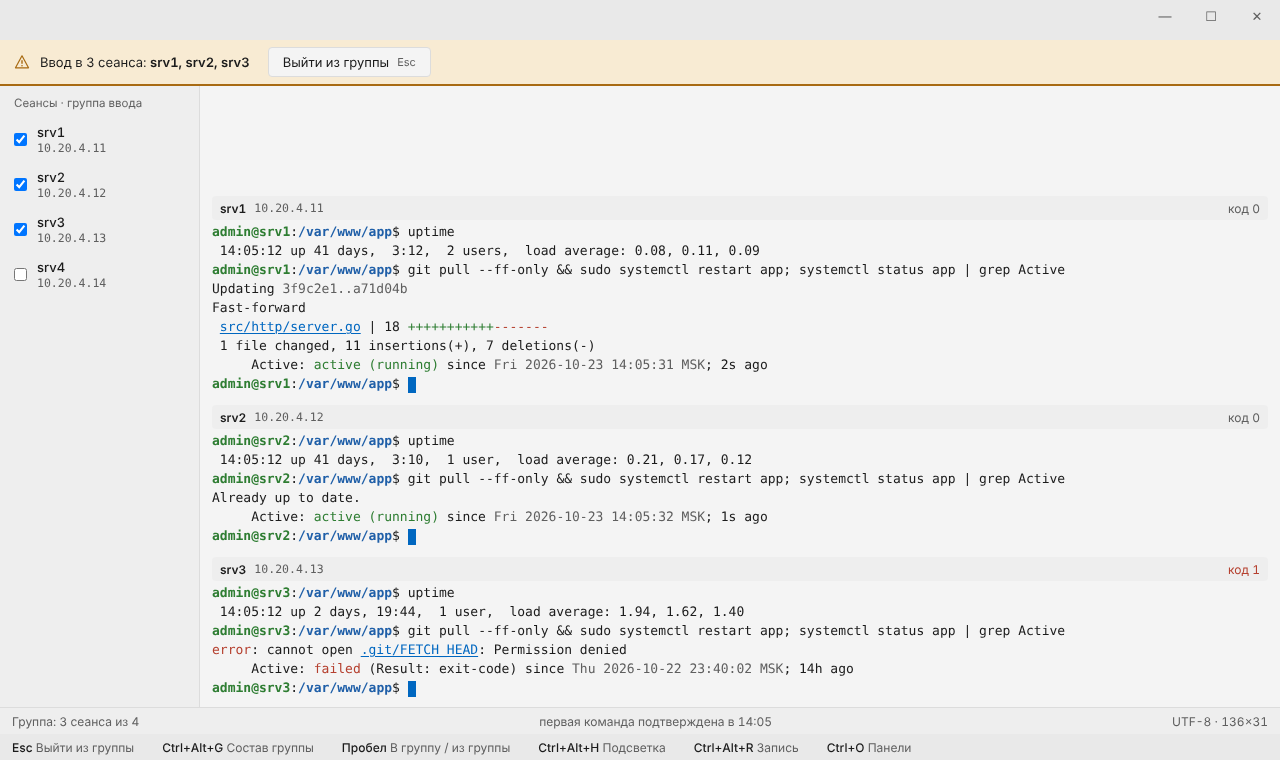
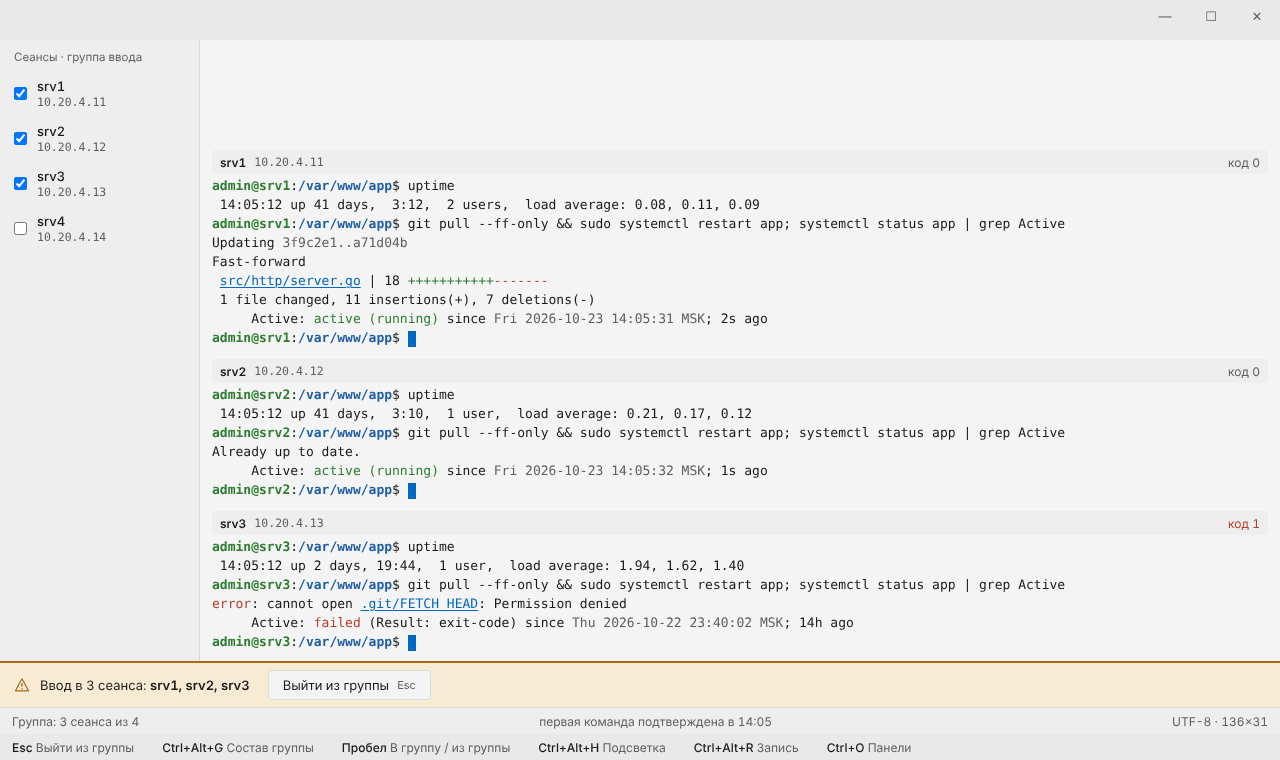
design: multi-exec strip at the bottom (No 63: top is navigation, bottom is events)
Claude-Session: https://claude.ai/code/session_013ZpcYnbJMYkHW4aMDDmFTq

Changed region(s): [[0.0, 0.2118, 1.0, 0.9382], [0.0, 0.0303, 1.0, 0.3934]]

diff --git a/docs/design/window.dc.html b/docs/design/window.dc.html
@@ -102,13 +102,6 @@ body{margin:0}
 </sc-if>
 </div>
 </sc-if>
-<sc-if value="{{stMulti}}" hint-placeholder-val="{{ false }}">
-<div role="alert" style="{{stWarn}}">
-<span style="display: inline-flex; color: {{t.rem}}"><svg width="16" height="16" viewBox="0 0 16 16" aria-hidden="true"><path d="M8 1.8l6.5 12H1.5z" fill="none" stroke="currentColor" stroke-width="1.2" stroke-linejoin="round"></path><path d="M8 6.2v3.6" stroke="currentColor" stroke-width="1.4"></path><circle cx="8" cy="11.8" r="0.8" fill="currentColor"></circle></svg></span>
-<span>Ввод в 3 сеанса: <span style="font-weight: 600">srv1, srv2, srv3</span></span>
-<button type="button" style="margin-left: 8px; {{btn}}">Выйти из группы <span style="font-size: 11px; color: {{t.s}}">Esc</span></button>
-</div>
-</sc-if>
 <div style="flex: 1; min-height: 0; display: flex">
 <sc-if value="{{stMulti}}" hint-placeholder-val="{{ false }}">
 <div role="group" aria-label="Сеансы SSH" style="{{stSessList}}">
@@ -120,6 +113,13 @@ body{margin:0}
 <sc-for list="{{stLines}}" as="ln" hint-placeholder-count="20"><div style="{{ln.st}}"><sc-for list="{{ln.g}}" as="sg" hint-placeholder-count="3"><span style="{{sg.s}}">{{sg.x}}</span></sc-for></div></sc-for>
 </div>
 </div>
+<sc-if value="{{stMulti}}" hint-placeholder-val="{{ false }}">
+<div role="alert" style="{{stWarn}}">
+<span style="display: inline-flex; color: {{t.rem}}"><svg width="16" height="16" viewBox="0 0 16 16" aria-hidden="true"><path d="M8 1.8l6.5 12H1.5z" fill="none" stroke="currentColor" stroke-width="1.2" stroke-linejoin="round"></path><path d="M8 6.2v3.6" stroke="currentColor" stroke-width="1.4"></path><circle cx="8" cy="11.8" r="0.8" fill="currentColor"></circle></svg></span>
+<span>Ввод в 3 сеанса: <span style="font-weight: 600">srv1, srv2, srv3</span></span>
+<button type="button" style="margin-left: 8px; {{btn}}">Выйти из группы <span style="font-size: 11px; color: {{t.s}}">Esc</span></button>
+</div>
+</sc-if>
 <sc-if value="{{stPlay}}" hint-placeholder-val="{{ false }}">
 <div role="toolbar" aria-label="Проигрывание записи" style="{{stBar}}">
 <button type="button" aria-label="Воспроизвести (Пробел)" style="{{stIconBtn}}"><svg width="12" height="12" viewBox="0 0 12 12" aria-hidden="true"><path d="M2.5 1.2v9.6L10.5 6z" fill="currentColor"></path></svg></button>
@@ -2343,7 +2343,7 @@ stHeadBar: "height: 30px; flex: none; display: flex; align-items: center; gap: 1
 stShellBtn: "height: 22px; padding: 0 8px; display: flex; align-items: center; gap: 6px; border: 1px solid " + t.b + "; border-radius: 4px; background: " + t.p + "; color: " + t.t + "; font-family: " + mono + "; font-size: 12.5px; font-weight: 600",
 stRecPill: "height: 20px; box-sizing: border-box; padding: 0 8px; display: inline-flex; align-items: center; gap: 6px; border: 1px solid " + t.k + "; border-radius: 4px; background: " + t.p + "; color: " + t.t + "; font-family: " + mono + "; font-size: 12px",
 stRecPol: "display: inline-flex; align-items: center; gap: 5px; color: " + t.s + "; font-size: 12px; white-space: nowrap",
-stWarn: "flex: none; display: flex; align-items: center; gap: 10px; padding: 7px 14px; background: " + t.wbg + "; border-bottom: 2px solid " + t.rem + "; font-size: 13px",
+stWarn: "flex: none; display: flex; align-items: center; gap: 10px; padding: 7px 14px; background: " + t.wbg + "; border-top: 2px solid " + t.rem + "; font-size: 13px",
 stSessList: "width: 200px; flex: none; display: flex; flex-direction: column; gap: 2px; padding: 8px 6px; box-sizing: border-box; border-right: 1px solid " + t.b + "; background: " + t.h + "; font-size: 13px",
 stOut: "flex: 1; min-width: 0; padding: 8px 12px; box-sizing: border-box; display: flex; flex-direction: column; justify-content: flex-end; overflow: hidden; font-family: " + mono + "; font-size: 13px; color: " + t.t,
 stBar: "height: 46px; flex: none; display: flex; align-items: center; gap: 10px; padding: 0 12px; border-top: 1px solid " + t.b + "; background: " + t.h + "; font-size: 12.5px",

diff --git a/docs/design/DESIGN.md b/docs/design/DESIGN.md
@@ -119,7 +119,7 @@
 | `screen-sftplost.png` | Связь потеряна: строка `warning_bg` с отсчётом переподключения (попытка N из M), «Переподключить сейчас» / «Отключиться»; содержимое панели приглушено, не исчезает | F-03 |
 | `screen-sftpsync.png` | Сравнение локальной папки и сервера: стрелки направления у строк, итог снизу «Синхронизировать: → N файлов · размер», «Удалять лишнее на сервере» выключено | F-03 |
 | `screen-sshpair.png` | Панель + терминал: справа сверху панель сервера, под ней терминал (шапка с «ssh srv1 ▾»); строки ввода Урфина нет — ввод сырой (S6 §3); подсветка вывода: успех `added`, ошибка `danger`, WARN `context_remote`, пути/IP/URL — подчёркнуты `accent`, даты/хэши `secondary`; цвета самой программы не трогаются | F-03 |
-| `screen-sshmulti.png` | Мультивыполнение: полоса `warning_bg` сверху «Ввод в N сеанса: …» + «Выйти из группы Esc»; слева список сеансов с флажками; вывод — блоками по сеансам, «код N» (не 0 — `danger`); первая команда подтверждается | F-03 |
+| `screen-sshmulti.png` | Мультивыполнение: полоса `warning_bg` снизу, над статусом (№63), черта сверху — «Ввод в N сеанса: …» + «Выйти из группы Esc»; слева список сеансов с флажками; вывод — блоками по сеансам, «код N» (не 0 — `danger`); первая команда подтверждается | F-03 |
 | `screen-sshrec.png` | Запись сеанса: метка «● REC мм:сс» `danger` в шапке терминала, «запись обязательна · политика · TOML» с замком; путь .cast — в статусе | F-03 |
 | `screen-sshrecview.png` | Просмотр записи (F3, asciicast v2): как просмотрщик — Запись / Текст / Hex; снизу ▶, время, шкала с метками совпадений, скорость 1×/2×/4×, поиск с историей и «N из M» | F-03 |
 | `screen-termhl.png` | Подсветка вывода в локальном терминале (pwsh): те же правила, что у SSH; вкл./выкл. — Ctrl+Alt+H, статус «Подсветка вывода: вкл.» | F-03 |
